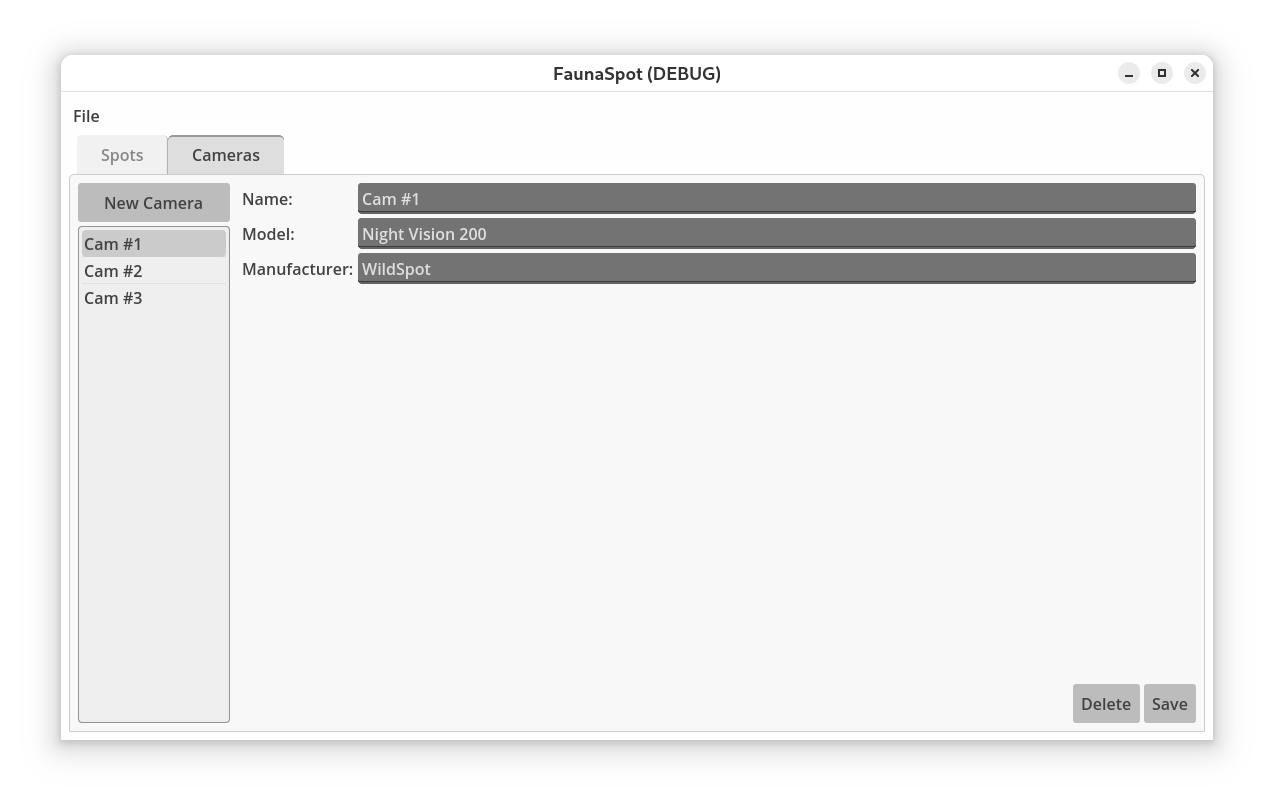
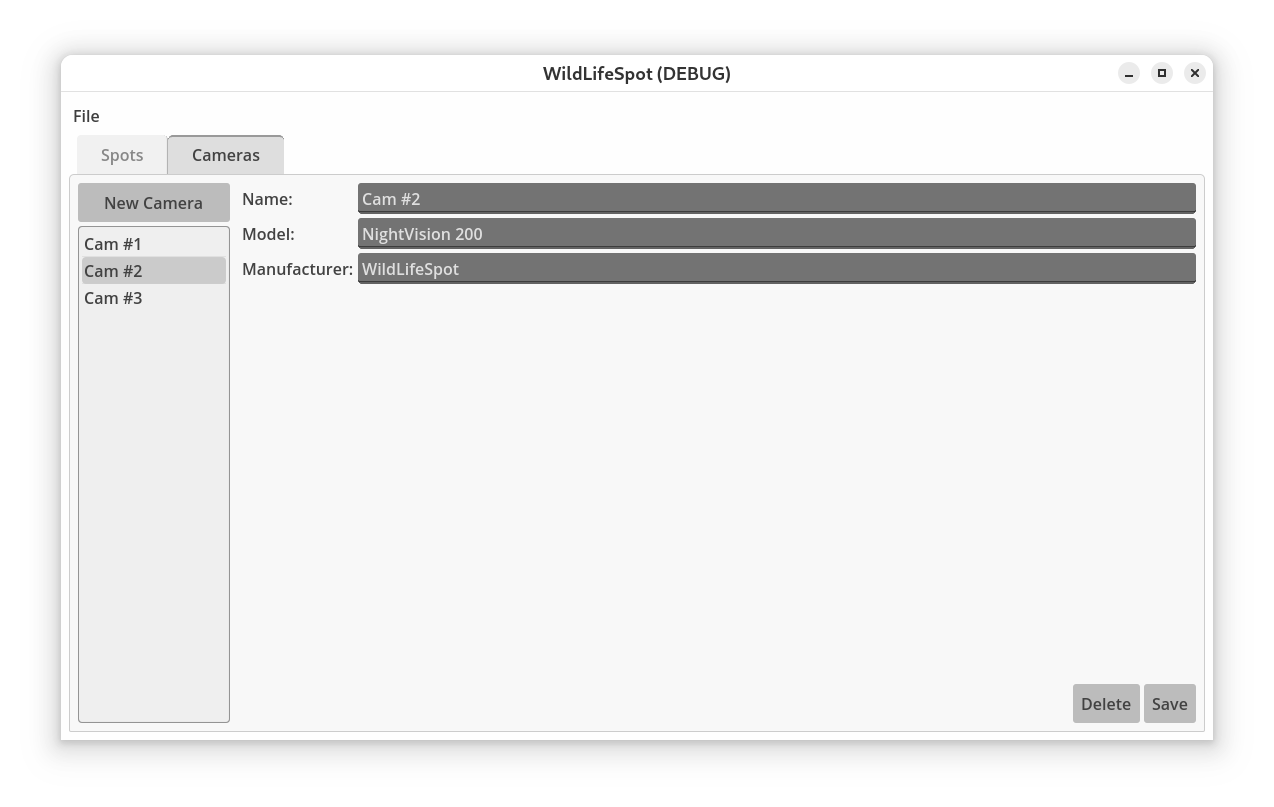
Rebrand to WildLifeSpot

Changed region(s): [[0.0612, 0.2788, 0.1837, 0.3717], [0.4286, 0.062, 0.5816, 0.1239], [0.3061, 0.2788, 0.398, 0.3408]]

diff --git a/Readme.md b/Readme.md
@@ -1,6 +1,6 @@
-# FaunaSpot
+# WildLifeSpot
 
-FaunaSpot is a tool that supports you in processing photos (e.g. taken by camera traps) and classifying depicted animals. Based on the data, it will generate graphs to help you understand animal behavior like peek times on a feeding ground.
+WildLifeSpot is a tool that supports you in processing photos (e.g. taken by camera traps) and classifying depicted animals. Based on the data, it will generate graphs to help you understand animal behavior like peek times on a feeding ground.
 
 Features:
 
@@ -15,7 +15,7 @@ Spotted animals are displayed as diagrams, allow to see e.g. peak times of anima
 
 ![Spot diagram](screenshots/spot_diagram.png)
 
-The bulk spot feature enables to process a big batch of camera trap pictures at once. You just have to classify and count visible animals. FaunaSpot takes care of the rest. ([Image license](samples/licenses.md))
+The bulk spot feature enables to process a big batch of camera trap pictures at once. You just have to classify and count visible animals. WildLifeSpot takes care of the rest. ([Image license](samples/licenses.md))
 
 ![Spotting animals](screenshots/spot_image.png)
 
